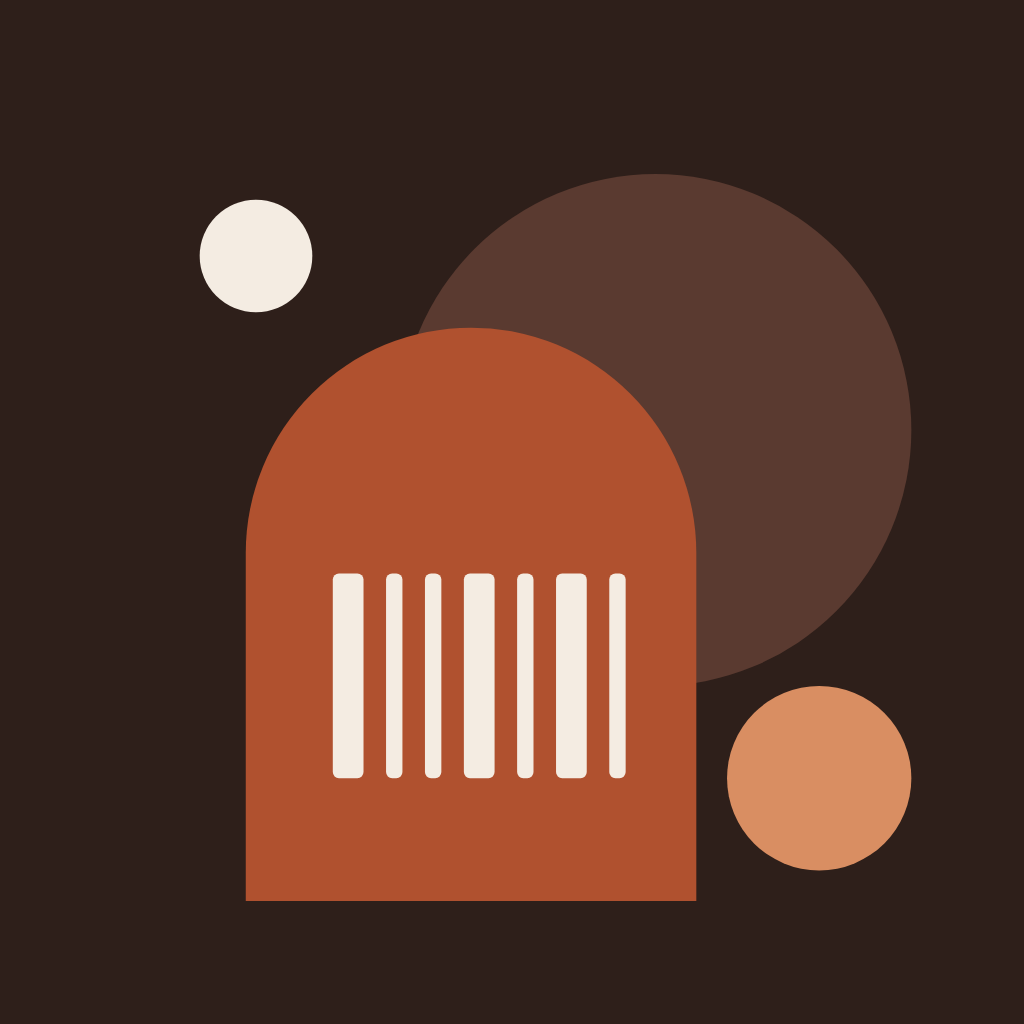
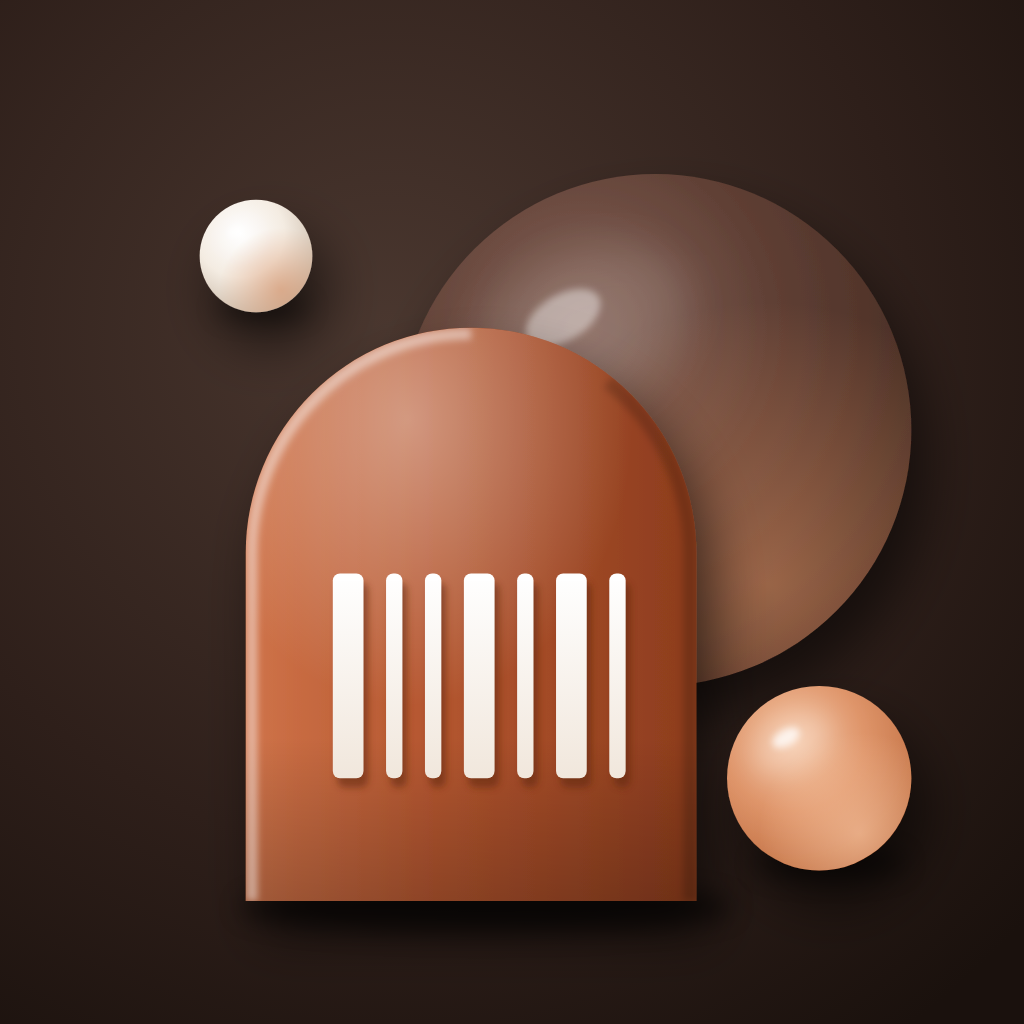
Add files via upload

Changed region(s): [[0.2188, 0.2188, 0.9062, 0.9375], [0.2188, 0.2188, 0.3125, 0.3125]]

diff --git a/index.html b/index.html
@@ -5,7 +5,7 @@
 <meta property="og:type" content="website">
 <meta property="og:title" content="EndoScan · Ce qu'il y a vraiment dans vos produits">
 <meta property="og:description" content="Scannez vos protections, cosmétiques et aliments : un score sur 100 pensé pour l'endométriose et le SOPK.">
-<meta property="og:image" content="https://plantaidev.github.io/endoscan/og.png">
+<meta property="og:image" content="https://plantaidev.github.io/endoscan/og.png?v=2">
 <meta property="og:image:width" content="1200"><meta property="og:image:height" content="630">
 <meta property="og:url" content="https://plantaidev.github.io/endoscan/">
 <meta name="twitter:card" content="summary_large_image">
